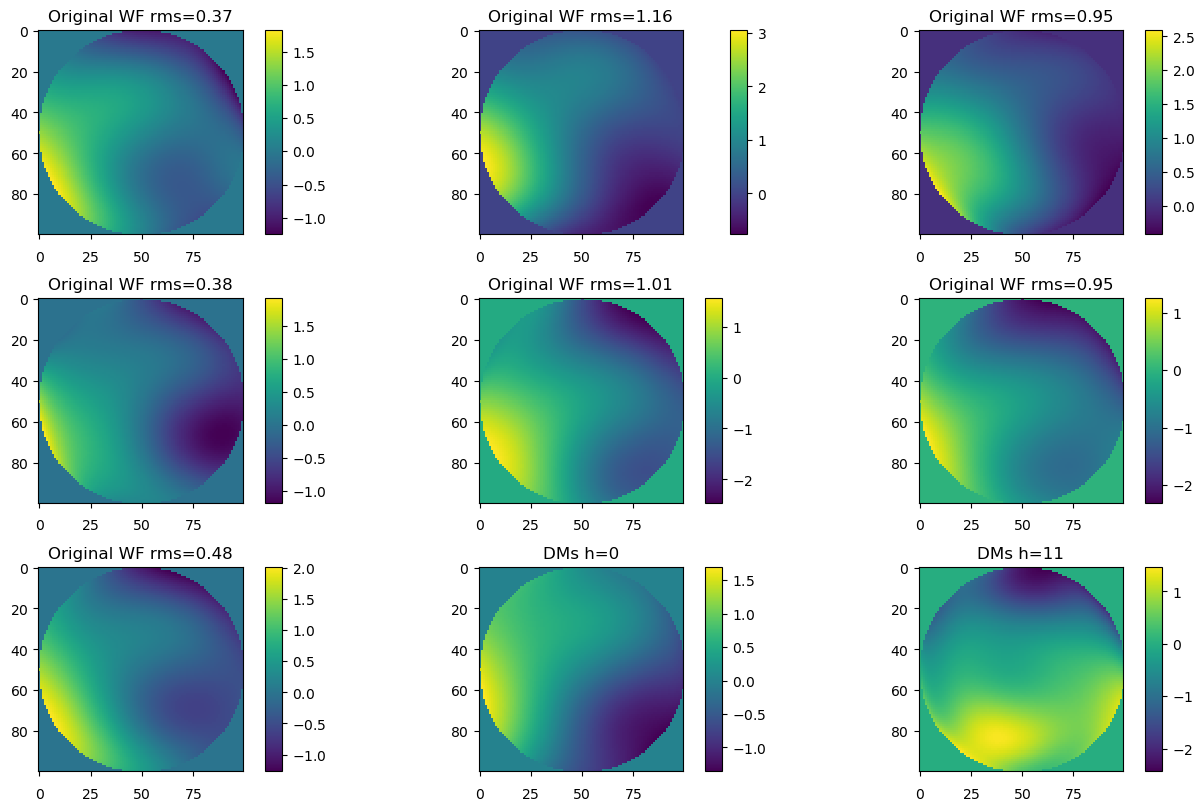
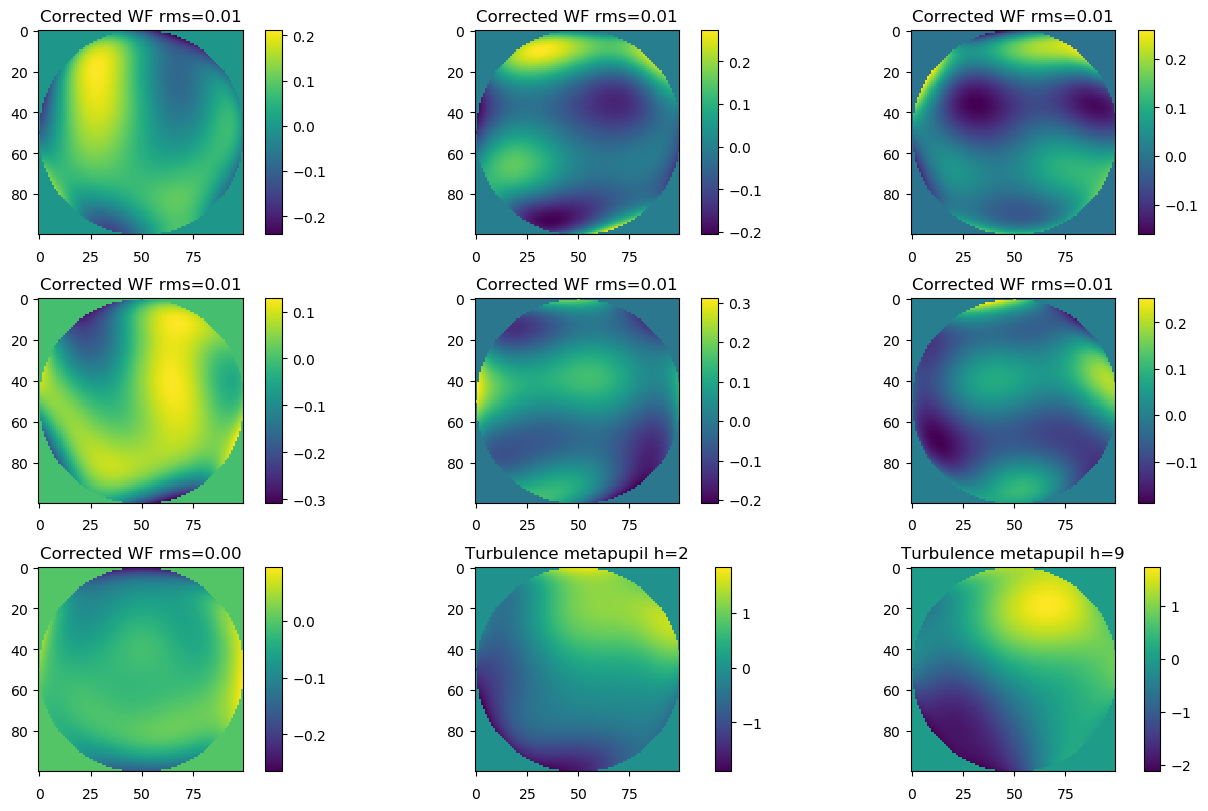
Swaped figures

diff --git a/mcao/neural/unsupervised/validate.py b/mcao/neural/unsupervised/validate.py
@@ -195,8 +195,8 @@ class mcao_neural(object):
     
             pl.show()
 
-            f.savefig('original.png', bbox_inches='tight')
-            f2.savefig('corrected.png', bbox_inches='tight')
+            f.savefig('corrected.png', bbox_inches='tight')
+            f2.savefig('original.png', bbox_inches='tight')
             
 
 if (__name__ == '__main__'):
